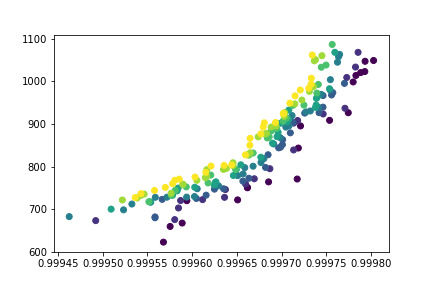
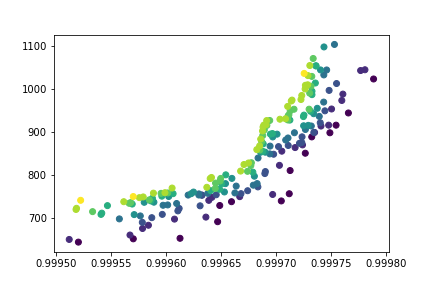
Fix crowding distance, final release

diff --git a/genetique.py b/genetique.py
@@ -1,32 +1,39 @@
 #Import libraries
+
 from random import randint,sample,shuffle
-import pandas as pd
 from math import exp
 from copy import deepcopy
-import matplotlib.pyplot as plt
+
+import pandas as pd
+
 #pip install plotly
 #pip install -U kaleido
 import plotly.express as px
 import plotly.io as pio
+import matplotlib.pyplot as plt
+
 
 #parameters calculation 
 
-#T_ex(Tij) aka Execution Time
+#T_ex(Tij) or Execution Time
 def Tex(T):
     return(T.nbInstruction/T.ComputerRate)
 
+#C_ex(X) or Execution Cost
 def Cex(X):
     res=0
     for DV in X:
         res+=Tex(DV)*DV.UseCost
     return(res)
 
+#F(X) or Reliability
 def F(X):
     res=0
     for DV in X:
         res+=(Tex(DV)*DV.FailureRate)
     return (exp(-1*res))
 
+#L(X) or Latency
 def L(X):
     res=0
     for DV in X:
@@ -73,7 +80,7 @@ class IndividualClass:
         self.Reliability = F(individual)
         self.Latency = L(individual)
         self.Rank = None
-        self.Crowding_distance=None
+        self.Crowding_distance=0
               
     def setRank(self, rank):
         self.Rank = rank
@@ -148,16 +155,25 @@ def reproduction(population,Tasks,VMs):
     shuffle(population)
     return(population)
 
+#Create subgroups sorting individual by ranks
+#an individual is in a rank i if he is not dominated by any indivual in a rank lower
+#and if there is at least one individual in the rank i-1 dominating him
 def create_subgroups(population,removeParameter=False):
+    #we need a copy of the population so poping individual during the 
+    #domination check algorithm does not falsify the results
     deepcopyPop=deepcopy(population)
     subgroups=[]
+    #until every one as been ranked
     while(len(population)>0):
         subgroup=[]
+        #for each individual
         for i in reversed(range(len(population))):
             boolean=True
             Xi=population[i]
+            #we check every other individual in the popultion
             for j in range (len(population)):
                 Xj=population[j]
+                #and check for domination
                 if (removeParameter=="CostEx"):
                     if (Xi.Reliability < Xj.Reliability and Xi.Latency > Xj.Latency):
                         boolean=False 
@@ -174,28 +190,41 @@ def create_subgroups(population,removeParameter=False):
                     if (Xi.CostEx > Xj.CostEx and Xi.Reliability < Xj.Reliability and Xi.Latency > Xj.Latency):
                         boolean=False 
                         break
-                
+            #if no individual dominates this one    
             if (boolean):
+                #we add the individual to the sublist and we pop it from the copy of population
                 subgroup.append(deepcopyPop.pop(i))
         subgroups.append(subgroup)
+        #we update population by removing the freshly ranked individuals
         population=deepcopy(deepcopyPop)
     return(subgroups)
     
 
-
+#calculate the crowding distance for each individual
 def crowding_distance_sorting(sub_group, removeParameter=False):
     n=len(sub_group)
+    #initialising the distance list to list of 0 and infinity for first and last distance
     distances=[0 for i in range(n)]
     distances[0]=float("inf")
     distances[-1]=float("inf")
+    #we iterate for each parameters
     if (not removeParameter=="CostEx"):
+        #we sort the population by the parameter CostEx
         sub_group = sorted(sub_group, key=lambda individual: individual.CostEx)
         f_min = sub_group[0].CostEx
         f_max = sub_group[-1].CostEx
+        #this prevents dividing by zero
         if (f_max != f_min):
+            #we calculate the crowding distance for each individual for the parameter CostEx
             for i in range(1,n-1):
                 distances[i] += (sub_group[i+1].CostEx - sub_group[i-1].CostEx) / (f_max - f_min)
-    
+        #we assign the crowding distance to the individuals
+        for i in range(n):
+            sub_group[i].Crowding_distance = sub_group[i].Crowding_distance+distances[i]
+        distances=[0 for i in range(n)]
+        distances[0]=float("inf")
+        distances[-1]=float("inf")
+    #we repeat for Reliablity
     if (not removeParameter=="Reliability"):
         sub_group = sorted(sub_group, key=lambda individual: individual.Reliability)
         f_min = sub_group[0].Reliability
@@ -203,7 +232,12 @@ def crowding_distance_sorting(sub_group, removeParameter=False):
         if (f_max != f_min):
             for i in range(1,n-1):
                 distances[i] += (sub_group[i+1].Reliability - sub_group[i-1].Reliability) / (f_max - f_min)
-
+        for i in range(n):
+            sub_group[i].Crowding_distance = sub_group[i].Crowding_distance+distances[i]
+        distances=[0 for i in range(n)]
+        distances[0]=float("inf")
+        distances[-1]=float("inf")
+    #We repeat for Latancy
     if (not removeParameter=="Latency"):
         sub_group = sorted(sub_group, key=lambda individual: individual.Latency)
         f_min = sub_group[0].Latency
@@ -211,23 +245,25 @@ def crowding_distance_sorting(sub_group, removeParameter=False):
         if (f_max != f_min):
             for i in range(1,n-1):
                 distances[i] += (sub_group[i+1].Latency - sub_group[i-1].Latency) / (f_max - f_min)
-
-    for i in range(n):
-         sub_group[i].crowding_distance = distances[i]
-     
-    sub_group = sorted(sub_group, key=lambda individual: individual.crowding_distance, reverse=True)
-     
+        for i in range(n):
+            sub_group[i].Crowding_distance = sub_group[i].Crowding_distance+distances[i]
+        distances=[0 for i in range(n)]
+        distances[0]=float("inf")
+        distances[-1]=float("inf")
+    #we now sort the population by crowding distance order
+    sub_group = sorted(sub_group, key=lambda individual: individual.Crowding_distance, reverse=True)
     return sub_group
 
+#sort every sub group in a list of sub groups
 def sort_sub_group(sub_groups,removeParameter=False):
     new_sub_groups=[]
     for sub_group in sub_groups:
         new_sub_groups.append(crowding_distance_sorting(sub_group,removeParameter))
     return(new_sub_groups)
 
+#gives a rank for every elements in a subgroup list
 def giveRank(sub_groups):
     for i,sub_group in enumerate(sub_groups):
-#        sub_group=crowding_distance_sorting(sub_group)
         for individual in sub_group:
             individual.setRank(i+1)     
     return(sub_groups)
@@ -237,6 +273,7 @@ def natural_selection(n,sub_groups):
     newPop=[individual for rank in sub_groups for individual in rank]
     return(newPop[:n])
 
+#display the average value of the parameters of a population
 def display_means(population):
     sumCostEx=sum(individual.CostEx for individual in population)
     sumReliability=sum(individual.Reliability for individual in population)
@@ -244,37 +281,46 @@ def display_means(population):
     n=len(population)
     print(sumCostEx/n,sumReliability/n,sumLatency/n)
 
-
+#show a interactive 3d plot using plotly.express
 def show_Domination_Plot_3D (population, save=False):
-
+    
     x = []
     y = []
     z = []
+    #colors (the rank of an individual)
     c = []
+    
+    #initialising the X Y Z and color data lists
     for individual in population:
         x.append(individual.CostEx)
         y.append(individual.Reliability)
         z.append(individual.Latency)
         c.append(individual.Rank)
+    #changes default view renderer to browser
     pio.renderers.default = 'browser'
+    #creates the plot
     fig = px.scatter_3d(x=x, y=y, z=z, color=c, 
                         title='Scatter points showing domination', 
                         labels={'x': 'Execution Cost', 'y': 'Reliability', 'z': 'Latency'})
+    #adds the labels
     fig.update_layout(scene=dict(xaxis=dict(title='Execution Cost'),
                                   yaxis=dict(title='Reliability'),
                                   zaxis=dict(title='Latency')))
-    
+    #saves the plot (3d plot are not interacive anymore ounce saved)
     if save:
         fig.write_image(f'{save}.png')
-        
+    #shows the plot
     fig.show()
 
+#show a 2d plot
 def show_Domination_Plot_2D (population,xattribute,yattribute, save=False):
     x = []
     y = []
+    #colors (the rank of an individual)
     c = []
-    pio.renderers.default = 'browser'
+    #initialising the X Y Z and color data lists
     for individual in population:
+        #we have several options if we want to ignore a variable
         if (xattribute=="CostEx"):
             x.append(individual.CostEx)
         elif (xattribute=="Reliability"):
@@ -289,12 +335,15 @@ def show_Domination_Plot_2D (population,xattribute,yattribute, save=False):
             y.append(individual.Latency)
                     
         c.append(individual.Rank)
+    #initialises the plot
     plt.scatter(x,y,c=c)
+    #saves the plot
     if save:
         plt.savefig(f'{save}.png')
+    #shows the plot
     plt.show()
     
-
+#function to show a graph in 2D or 3D depending on remove parameter.
 def show_Domination_Plot(population, removeParameter=False, save= False):
     if removeParameter=="CostEx":
         show_Domination_Plot_2D(population,"Reliability","Latency",save)
@@ -335,19 +384,34 @@ def display_best_solution_by_objective(solutions,objective):
     
     return best_solution_for_objective
 
+#The function running the NSGA_II Algorithm, Remove parameter allows to run the simulation with one 
+#parameter less (for 2D graphs) and show convergence shows the graph for the early stages of the simulation
+#di
 def NSGA_II(population_size=200,nb_generations=100, removeParameter=False, show_convergence=False):
+    #reads the files' data and load them in classes
     Tasks,VMs=generateTasksAndVMs()
+    #generates a random generation of individuals for initialisation
     population=generate_random_population(population_size,Tasks,VMs)
+    #displays some datas
     display_means(population)
+    #start of the simulation
     for i in range(nb_generations):
+         #regularly prints the steps of progression of the algorithm
          if (i%10==0):
              print("étape "+str(i))
+         #randomly shuffles the population before reproduction
          shuffle(population)
+         #reproduction of the population
          population=reproduction(population,Tasks,VMs)
+         #creates the sub groups by rank
          rankedPop=create_subgroups(population,removeParameter)
+         #assignes a rank to each individual
          rankedPop=giveRank(rankedPop)
+         #sorts the population by crowding distance
          rankedPop=sort_sub_group(rankedPop,removeParameter)
+         #selection of featest individuals
          population=natural_selection(population_size, rankedPop)
+         #generateq a graph for some of the steps
          if (i==0 or i==nb_generations-1 or show_convergence and(i==2 or i==4 or i==6 or i==10)):
              savefileName="_generation_n-"+str(i)
              if removeParameter:
@@ -356,6 +420,7 @@ def NSGA_II(population_size=200,nb_generations=100, removeParameter=False, show_
                  savefileName= "SavedPlots/3D_Plot"+savefileName
              show_Domination_Plot(population,removeParameter,save=savefileName)
              print(savefileName)
+    #displays some data at the end of the simulation
     print("average of final generation parameters:")
     display_means(population)
     print("exemple of some of the fittest individual:")
@@ -380,10 +445,13 @@ def NSGA_II(population_size=200,nb_generations=100, removeParameter=False, show_
     best_reliability.show()
     print(best_reliability.CostEx,best_reliability.Reliability,best_reliability.Latency)
 
+#main function running several simulations
 def main ():
     NSGA_II(removeParameter="CostEx",show_convergence=True)
     NSGA_II(removeParameter="Reliability")
     NSGA_II(removeParameter="Latency")
     NSGA_II()
-    
+
+#runs the main function when the code runs
+#comment when  working on the code
 main()
